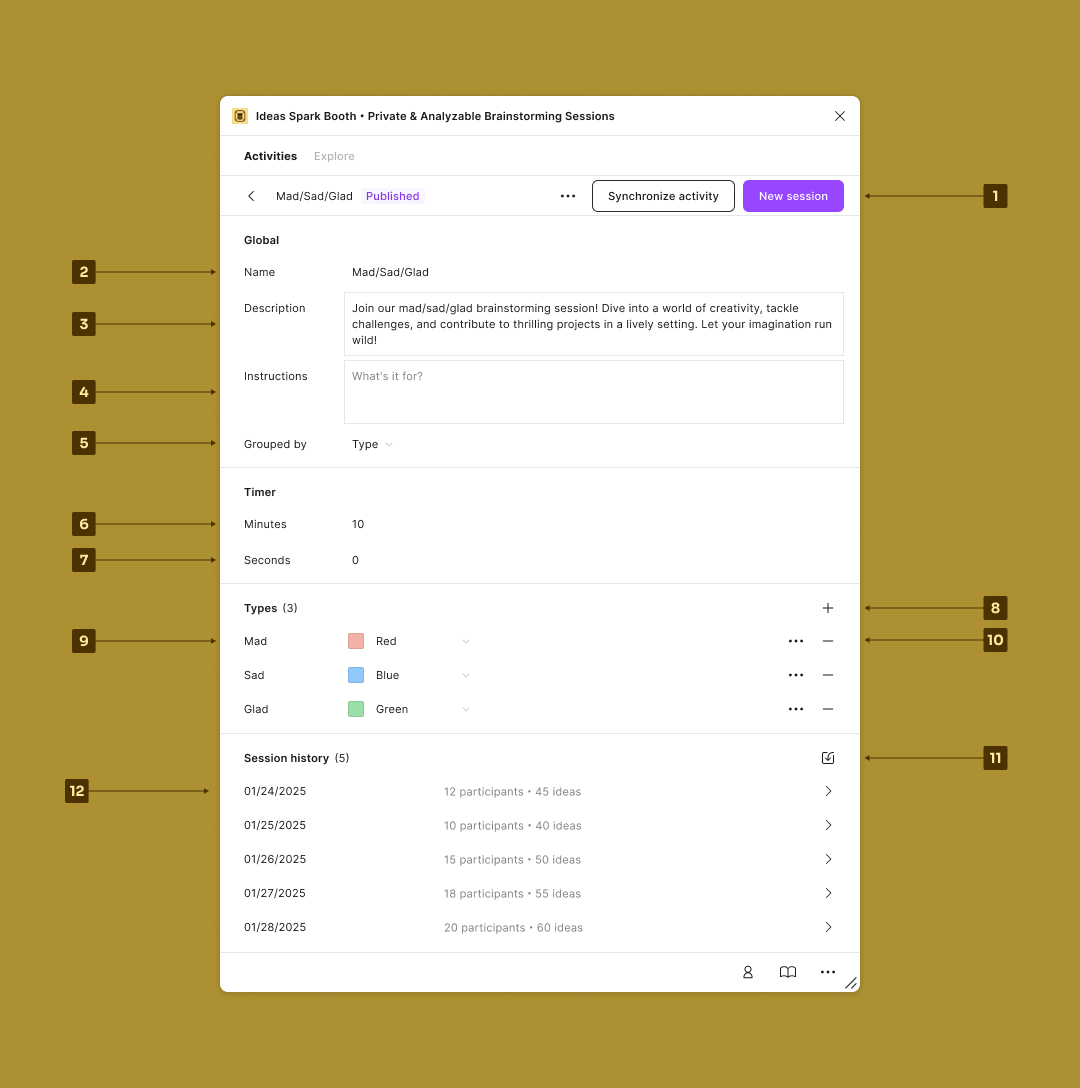
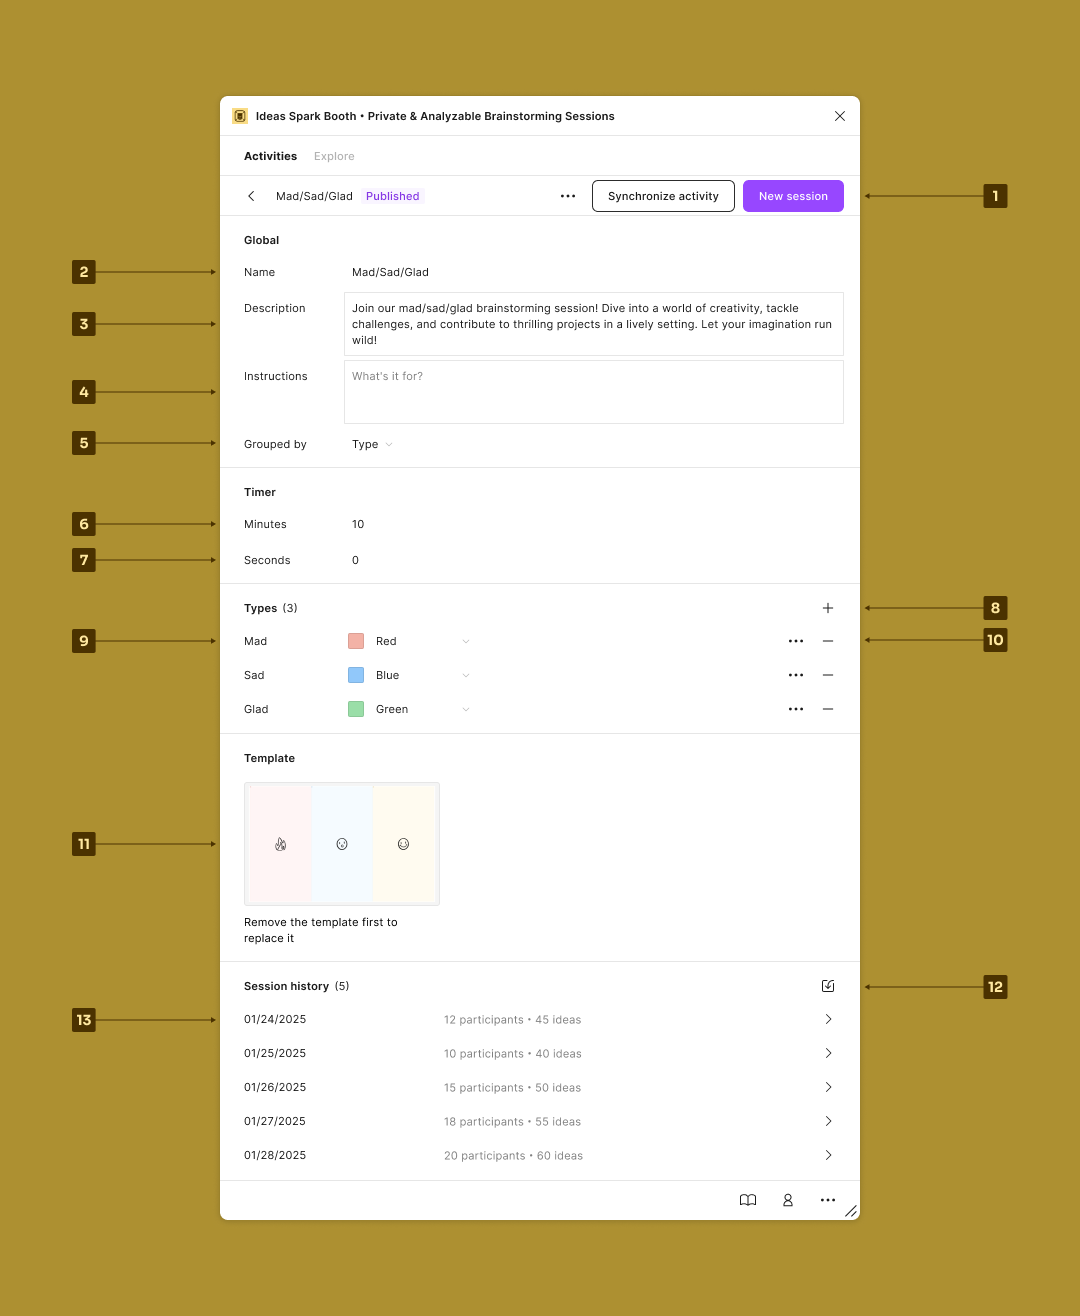
GITBOOK-8: Add the template feature

diff --git a/browse-activities/overview.md b/browse-activities/overview.md
@@ -54,7 +54,7 @@ description: A quick glance at the controller
    * `Ellipses` button:
      * `Add overview to slides`: Generate a summary of the activity on a `Slides` document.
      * `Add overview to board`: Generate a summary of the activity on a `FigJam` board.
-     * `Add a report to slides`: Generate a summary followed by each session related to the activity on a `Slides` document.
+     * `Add a report to slides`: Generate a summary of each session related to the activity on a `Slides` document.
      * Import sessions into the activity.
      * Export the activity (configuration, sessions, ideas) to use it in another document.
      * Delete the activity.
@@ -67,5 +67,6 @@ description: A quick glance at the controller
 8. Add a `Type`.
 9. Rename the type, change its color, and add a `Description`.
 10. Remove a `Type`.
-11. Import sessions into the activity.
-12. Access a specific session from the history.
+11. Save a `Template` from the `FigJam` board.
+12. Import sessions into the activity.
+13. Access a specific session from the `History`.

diff --git a/run-sessions/facilitate-a-session/prepare-the-session.md b/run-sessions/facilitate-a-session/prepare-the-session.md
@@ -2,5 +2,5 @@
 
 As a facilitator, you must provide the best context for your participants. Whatever the editor you are, you can add an overview of the activity directly on the `FigJam` board and the `Slides` document:
 
-* On `FigJam`, you can go to the activity Settings, then click the Ellipses button and click `Add overview to board`. This way, the global information encapsulated in sections will be added to the board from your current point of view.
+* On `FigJam`, you can go to the activity Settings, then click the Ellipses button and click `Add template to board`. This way, the global information and the saved template will be added to the board from your current point of view.
 * On `Slides`, you can go to the activity Settings, then click the Ellipses button and click `Add overview to slides`. This way, the global information split into slides will be added to the slides just after the last one.

diff --git a/browse-activities/create-an-activity/add-a-template.md b/browse-activities/create-an-activity/add-a-template.md
@@ -1,0 +1,18 @@
+# Add a template
+
+You can add a template from a `Section` of a `FigJam` board. This template could be reused in several documents and published. The purpose is to give your activity a structured way to sort ideas from your participants after a session.
+
+You have to click a `Section` on the board, then click on `Add template` to save the  Section, followed by its children as a template.
+
+Be aware some `FigJam` elements are not totally supported. Here is a whitelist:
+
+* `Section`.
+* `Group`.
+* `Shapes`:
+  * No text
+* `Texts`:
+  * No hyperlink.
+  * No mixed style.
+* `Components`:
+  * Stickers.
+  * Components.

diff --git a/SUMMARY.md b/SUMMARY.md
@@ -9,6 +9,7 @@
   * [Change the global settings](browse-activities/create-an-activity/change-the-global-settings.md)
   * [Change the timer](browse-activities/create-an-activity/change-the-timer.md)
   * [Set the idea types](browse-activities/create-an-activity/set-the-idea-types.md)
+  * [Add a template](browse-activities/create-an-activity/add-a-template.md)
 * [Explore activities](browse-activities/explore-activities.md)
 * [Import/Export an activity](browse-activities/import-export-an-activity/README.md)
   * [Export an activity](browse-activities/import-export-an-activity/export-an-activity.md)

diff --git a/publish-activities/publish-and-synchronize-activities/README.md b/publish-activities/publish-and-synchronize-activities/README.md
@@ -5,3 +5,11 @@ icon: '2'
 # Publish and Synchronize activities
 
 There are two types of remote activities: yours and the community. You cannot manage the lifecycle in the same way.
+
+{% content-ref url="publish-activities.md" %}
+[publish-activities.md](publish-activities.md)
+{% endcontent-ref %}
+
+{% content-ref url="synchronize-activities.md" %}
+[synchronize-activities.md](synchronize-activities.md)
+{% endcontent-ref %}
